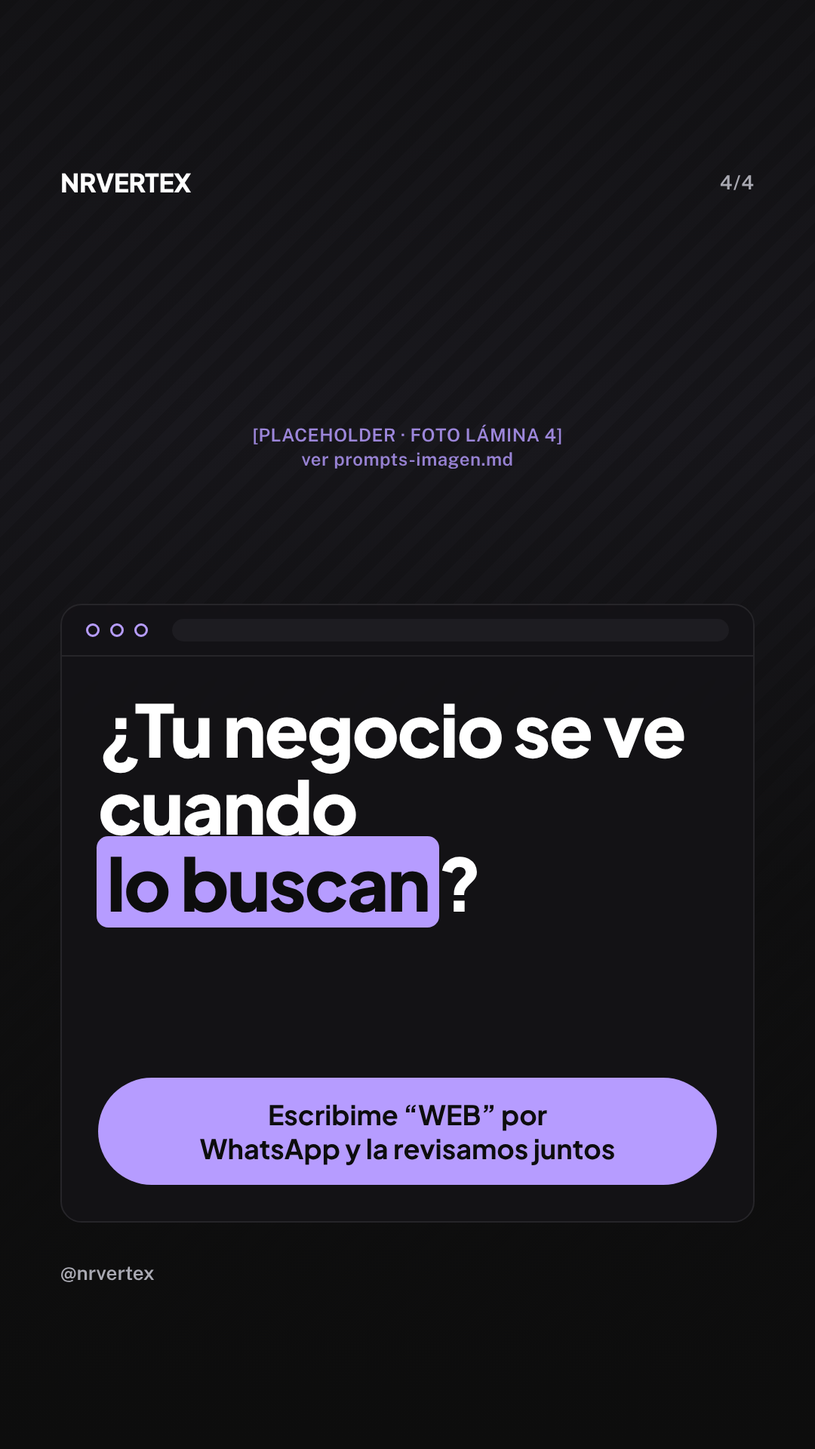
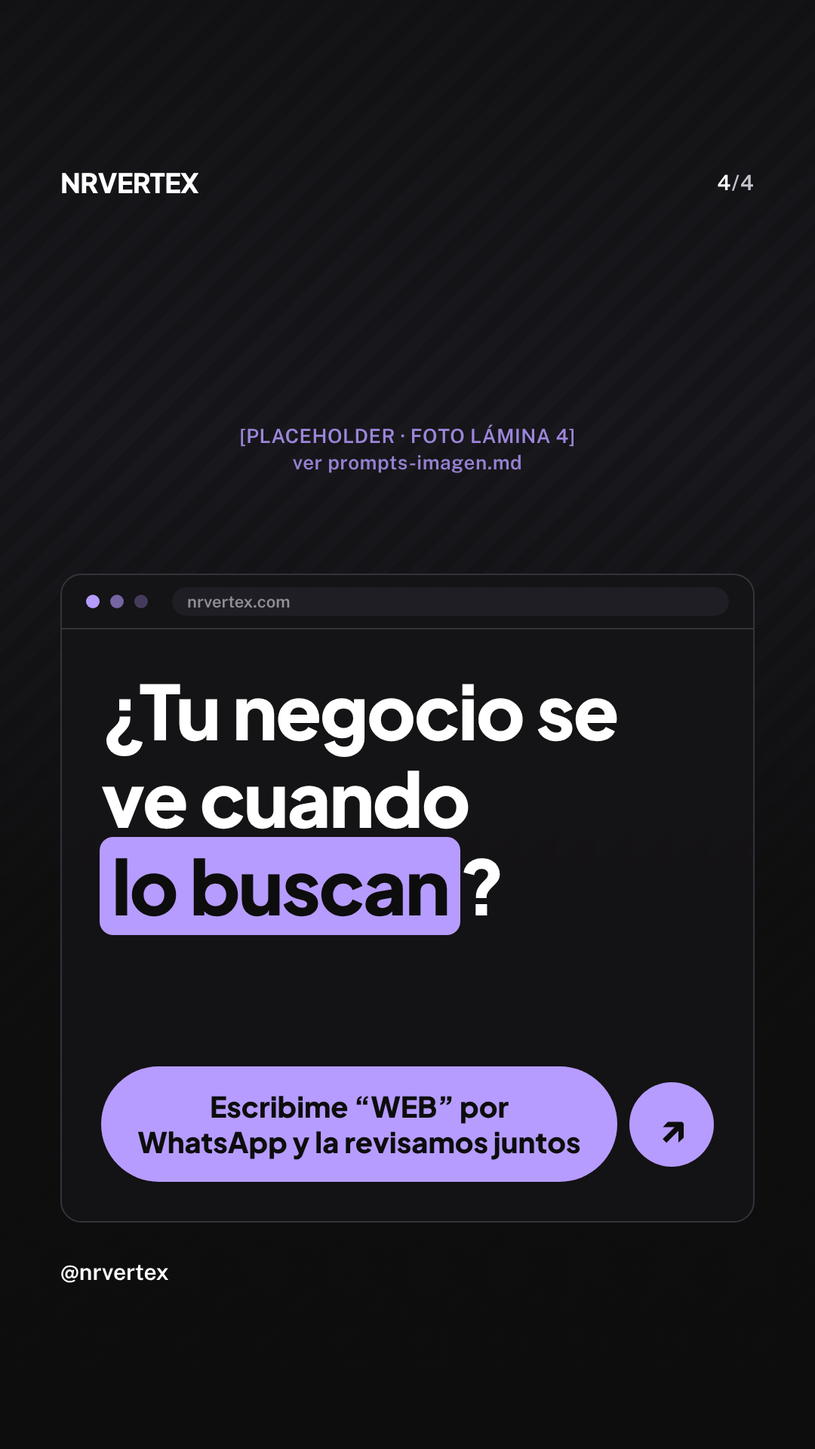
Mejora jerarquía, pesos, legibilidad y espaciados de las piezas
Claude-Session: https://claude.ai/code/session_01GdGc33ydtXqPRbN8hxPgAS

diff --git a/_CONTENIDO/03-produccion/carrusel-web-vidriera/assets/base.css b/_CONTENIDO/03-produccion/carrusel-web-vidriera/assets/base.css
@@ -1,33 +1,42 @@
 @import url('fonts.css');
 :root{
-  --ink:#0D0D0D; --ink2:#141316; --line:#262529; --paper:#F3F3F3;
-  --violet:#B69CFF; --violet-soft:#CDB9FF; --muted:#A9A9B2;
-  --m:80px; /* margen de zona segura */
+  --ink:#0D0D0D; --ink2:#141316; --line:#34333B; --paper:#F3F3F3; --paper-70:#C9C9D1;
+  --violet:#B69CFF; --violet-soft:#CDB9FF; --muted:#C4C4CC;
+  --m:80px;                       /* margen de zona segura */
+  --s1:16px; --s2:28px; --s3:48px; /* escala de espaciado */
+  --lead:56px; --main:96px;        /* tamaños de titular (se redefinen por lámina) */
 }
 *{box-sizing:border-box;margin:0;padding:0}
 html,body{width:1080px;height:1350px;background:var(--ink);overflow:hidden}
 body{position:relative;font-family:'Public Sans',Arial,sans-serif;color:var(--paper);-webkit-font-smoothing:antialiased}
-.glow{position:absolute;inset:0;background:radial-gradient(900px 700px at 85% 8%,rgba(182,156,255,.16),transparent 60%),radial-gradient(800px 600px at 5% 100%,rgba(124,58,237,.14),transparent 60%)}
-/* cabecera */
+.glow{position:absolute;inset:0;background:radial-gradient(900px 700px at 85% 8%,rgba(182,156,255,.18),transparent 60%),radial-gradient(800px 600px at 5% 100%,rgba(124,58,237,.14),transparent 60%)}
+/* cabecera y pie */
 .top{position:absolute;left:var(--m);right:var(--m);top:var(--m);display:flex;justify-content:space-between;align-items:center;height:44px;z-index:5}
-.logo{font:800 34px/1 'Plus Jakarta Sans',sans-serif;letter-spacing:-.01em;color:#fff}
-.count{font:600 26px/1 'Public Sans',sans-serif;color:var(--muted);letter-spacing:.04em}
-/* pie */
-.foot{position:absolute;left:var(--m);right:var(--m);bottom:var(--m);display:flex;justify-content:space-between;align-items:center;font:600 26px/1 'Public Sans',sans-serif;color:var(--muted);z-index:5}
-.foot b{color:var(--violet);font-weight:600}
+.logo{font:800 36px/1 'Plus Jakarta Sans',sans-serif;letter-spacing:-.01em;color:#fff}
+.count{font:700 28px/1 'Public Sans',sans-serif;color:var(--muted);letter-spacing:.04em}
+.count b{color:#fff;font-weight:700}
+.foot{position:absolute;left:var(--m);right:var(--m);bottom:var(--m);display:flex;justify-content:space-between;align-items:center;font:600 30px/1 'Public Sans',sans-serif;color:var(--muted);z-index:5}
+.foot .h{color:#fff;font-weight:700}
+.foot b{color:var(--violet);font-weight:700}
 /* ventana */
 .win{position:absolute;left:var(--m);right:var(--m);top:170px;bottom:150px;background:var(--ink2);border:2px solid var(--line);border-radius:28px;display:flex;flex-direction:column;overflow:hidden;z-index:2}
-.chrome{height:68px;flex:none;border-bottom:2px solid var(--line);display:flex;align-items:center;gap:14px;padding:0 32px}
-.chrome i{width:18px;height:18px;border-radius:50%;border:3px solid var(--violet);display:block}
-.chrome .bar{margin-left:18px;flex:1;height:30px;border-radius:15px;background:#1d1c21}
-.body{flex:1;display:flex;flex-direction:column;padding:44px 48px 48px;min-height:0}
-/* titulares */
-.t{font-family:'Plus Jakarta Sans',sans-serif;font-weight:800;letter-spacing:-.025em;line-height:1.1;color:#fff}
+.chrome{height:72px;flex:none;border-bottom:2px solid var(--line);display:flex;align-items:center;gap:14px;padding:0 32px}
+.chrome i{width:18px;height:18px;border-radius:50%;background:var(--violet);display:block}
+.chrome i:nth-child(2){opacity:.6}.chrome i:nth-child(3){opacity:.3}
+.chrome .bar{margin-left:18px;flex:1;height:38px;border-radius:19px;background:#1F1E24;display:flex;align-items:center;padding:0 20px;font:600 22px/1 'Public Sans',sans-serif;color:#8F8F99}
+.body{flex:1;display:flex;flex-direction:column;padding:var(--s3) 52px 52px;min-height:0}
+/* titulares: nivel 1 = apoyo, nivel 2 = protagonista */
+.t{font-family:'Plus Jakarta Sans',sans-serif;color:#fff;word-spacing:.05em}
+.lead{font-weight:700;font-size:var(--lead);line-height:1.16;letter-spacing:-.015em;color:var(--paper-70)}
+.main{font-weight:800;font-size:var(--main);line-height:1.16;letter-spacing:-.025em;margin-top:var(--s2)}
 .t em{font-style:italic;font-weight:800;color:var(--violet-soft)}
-.hl{background:var(--violet);color:var(--ink);padding:0 .14em;margin:0 -.02em;border-radius:.16em;-webkit-box-decoration-break:clone;box-decoration-break:clone}
+.hl{background:var(--violet);color:var(--ink);font-weight:800;padding:0 .16em .04em;margin:0 -.02em;border-radius:.18em;-webkit-box-decoration-break:clone;box-decoration-break:clone}
+.tail{font:600 38px/1.25 'Public Sans',sans-serif;color:var(--paper-70);margin-top:var(--s2)}
 /* slot de imagen (placeholder hasta tener la imagen real) */
-.slot{position:relative;flex:none;border-radius:20px;overflow:hidden;border:2px dashed rgba(182,156,255,.55);background:repeating-linear-gradient(135deg,#17161b 0 18px,#1b1a20 18px 36px);background-size:cover;background-position:center}
-.slot .tag{position:absolute;inset:0;display:flex;align-items:center;justify-content:center;text-align:center;padding:20px;font:600 24px/1.35 'Public Sans',sans-serif;color:var(--violet);letter-spacing:.02em}
+.slot{position:relative;flex:1;min-height:0;margin-top:var(--s3);border-radius:22px;overflow:hidden;border:2px dashed rgba(182,156,255,.6);background:repeating-linear-gradient(135deg,#17161b 0 18px,#1b1a20 18px 36px);background-size:cover;background-position:center}
+.slot .tag{position:absolute;inset:0;display:flex;align-items:center;justify-content:center;text-align:center;padding:20px;font:700 26px/1.35 'Public Sans',sans-serif;color:var(--violet);letter-spacing:.02em}
 .slot.has-img{border-color:transparent}.slot.has-img .tag{display:none}
-/* botón pastilla */
-.pill{display:inline-block;background:var(--violet);color:var(--ink);font:700 36px/1.25 'Plus Jakarta Sans',sans-serif;padding:26px 44px;border-radius:999px;text-align:center}
+/* botón pastilla con flecha (como el de nrvertex.com) */
+.cta{display:flex;align-items:center;gap:16px}
+.pill{flex:1;background:var(--violet);color:var(--ink);font:800 38px/1.22 'Plus Jakarta Sans',sans-serif;padding:30px 44px;border-radius:999px;text-align:center}
+.arrow{flex:none;width:112px;height:112px;border-radius:50%;background:var(--violet);color:var(--ink);display:flex;align-items:center;justify-content:center;font:800 54px/1 'Plus Jakarta Sans',sans-serif}

diff --git a/_CONTENIDO/03-produccion/carrusel-web-vidriera/html/estado-3.html b/_CONTENIDO/03-produccion/carrusel-web-vidriera/html/estado-3.html
@@ -1,19 +1,18 @@
 <!doctype html><html lang="es"><head><meta charset="utf-8"><title>NRVERTEX · Estado WhatsApp 3</title>
 <link rel="stylesheet" href="../assets/base.css">
 <link rel="stylesheet" href="../assets/story.css">
-<style>.t{font-size:56px;line-height:1.12}
-.lap{margin:auto auto 0;width:700px}
-.lap .scr{background:#050506;border:3px solid #34333a;border-radius:20px 20px 6px 6px;padding:14px 14px 18px}
+<style>:root{--main:62px}
+.lapwrap{flex:1;min-height:0;display:flex;align-items:flex-end;justify-content:center;margin-top:var(--s3)}
+.lap{width:660px}
+.lap .scr{background:#050506;border:3px solid #3d3c44;border-radius:20px 20px 6px 6px;padding:14px 14px 18px}
 .lap .scr img{display:block;width:100%;aspect-ratio:16/10;object-fit:cover;object-position:top;border-radius:6px}
-.lap .base{height:22px;margin:0 -50px;background:linear-gradient(#3b3a42,#202025);border-radius:0 0 40px 40px;position:relative}
-.lap .base:after{content:"";position:absolute;left:50%;top:0;width:150px;height:8px;margin-left:-75px;background:#14141a;border-radius:0 0 12px 12px}
-</style></head><body class="s3">
+.lap .base{height:22px;margin:0 -50px;background:linear-gradient(#45444c,#222227);border-radius:0 0 40px 40px;position:relative}
+.lap .base:after{content:"";position:absolute;left:50%;top:0;width:150px;height:8px;margin-left:-75px;background:#14141a;border-radius:0 0 12px 12px}</style></head><body class="s3">
 <div class="glow"></div>
-<div class="top"><div class="logo">NRVERTEX</div><div class="count">3/4</div></div>
-<div class="win"><div class="chrome"><i></i><i></i><i></i><div class="bar"></div></div>
-<div class="body">
-<h1 class="t">Una web hecha para <span class="hl">aparecer en Google</span> y para que te escriban por <em>WhatsApp</em>, no solo para verse&nbsp;linda.</h1>
-<div class="lap"><div class="scr"><img src="../assets/nrvertex-hero.png" alt="Captura de nrvertex.com"></div><div class="base"></div></div>
+<div class="top"><div class="logo">NRVERTEX</div><div class="count"><b>3</b>/4</div></div>
+<div class="win"><div class="chrome"><i></i><i></i><i></i><div class="bar">nrvertex.com</div></div><div class="body">
+<h1 class="t"><div class="main" style="margin-top:0">Una web hecha para <span class="hl">aparecer en Google</span> y para que te escriban por <em>WhatsApp</em>,</div><div class="tail">no solo para verse linda.</div></h1>
+<div class="lapwrap"><div class="lap"><div class="scr"><img src="../assets/nrvertex-hero.png" alt="Captura de nrvertex.com"></div><div class="base"></div></div></div>
 </div></div>
-<div class="foot"><span>@nrvertex</span><span></span></div>
-</body></html>
+<div class="foot"><span class="h">@nrvertex</span><span></span></div>
+<script src="../assets/slot.js"></script></body></html>

diff --git a/_CONTENIDO/03-produccion/carrusel-web-vidriera/html/lamina-3.html b/_CONTENIDO/03-produccion/carrusel-web-vidriera/html/lamina-3.html
@@ -1,18 +1,17 @@
 <!doctype html><html lang="es"><head><meta charset="utf-8"><title>NRVERTEX · Lámina 3</title>
 <link rel="stylesheet" href="../assets/base.css">
-<style>.t{font-size:56px;line-height:1.12}
-.lap{margin:auto auto 0;width:700px}
-.lap .scr{background:#050506;border:3px solid #34333a;border-radius:20px 20px 6px 6px;padding:14px 14px 18px}
+<style>:root{--main:62px}
+.lapwrap{flex:1;min-height:0;display:flex;align-items:flex-end;justify-content:center;margin-top:var(--s3)}
+.lap{width:660px}
+.lap .scr{background:#050506;border:3px solid #3d3c44;border-radius:20px 20px 6px 6px;padding:14px 14px 18px}
 .lap .scr img{display:block;width:100%;aspect-ratio:16/10;object-fit:cover;object-position:top;border-radius:6px}
-.lap .base{height:22px;margin:0 -50px;background:linear-gradient(#3b3a42,#202025);border-radius:0 0 40px 40px;position:relative}
-.lap .base:after{content:"";position:absolute;left:50%;top:0;width:150px;height:8px;margin-left:-75px;background:#14141a;border-radius:0 0 12px 12px}
-</style></head><body>
+.lap .base{height:22px;margin:0 -50px;background:linear-gradient(#45444c,#222227);border-radius:0 0 40px 40px;position:relative}
+.lap .base:after{content:"";position:absolute;left:50%;top:0;width:150px;height:8px;margin-left:-75px;background:#14141a;border-radius:0 0 12px 12px}</style></head><body>
 <div class="glow"></div>
-<div class="top"><div class="logo">NRVERTEX</div><div class="count">3/4</div></div>
-<div class="win"><div class="chrome"><i></i><i></i><i></i><div class="bar"></div></div>
-<div class="body">
-<h1 class="t">Una web hecha para <span class="hl">aparecer en Google</span> y para que te escriban por <em>WhatsApp</em>, no solo para verse&nbsp;linda.</h1>
-<div class="lap"><div class="scr"><img src="../assets/nrvertex-hero.png" alt="Captura de nrvertex.com"></div><div class="base"></div></div>
+<div class="top"><div class="logo">NRVERTEX</div><div class="count"><b>3</b>/4</div></div>
+<div class="win"><div class="chrome"><i></i><i></i><i></i><div class="bar">nrvertex.com</div></div><div class="body">
+<h1 class="t"><div class="main" style="margin-top:0">Una web hecha para <span class="hl">aparecer en Google</span> y para que te escriban por <em>WhatsApp</em>,</div><div class="tail">no solo para verse linda.</div></h1>
+<div class="lapwrap"><div class="lap"><div class="scr"><img src="../assets/nrvertex-hero.png" alt="Captura de nrvertex.com"></div><div class="base"></div></div></div>
 </div></div>
-<div class="foot"><span>@nrvertex</span><span>Deslizá <b>→</b></span></div>
-</body></html>
+<div class="foot"><span class="h">@nrvertex</span><span>Deslizá <b>→</b></span></div>
+<script src="../assets/slot.js"></script></body></html>

diff --git a/_CONTENIDO/03-produccion/carrusel-web-vidriera/html/estado-4.html b/_CONTENIDO/03-produccion/carrusel-web-vidriera/html/estado-4.html
@@ -1,22 +1,19 @@
 <!doctype html><html lang="es"><head><meta charset="utf-8"><title>NRVERTEX · Estado WhatsApp 4</title>
 <link rel="stylesheet" href="../assets/base.css">
 <link rel="stylesheet" href="../assets/story.css">
-<style>
-.bg{position:absolute;inset:0;border:none;border-radius:0;background-color:#16151a;z-index:0}
-.bg .tag{align-items:flex-start;padding-top:330px}
+<style>:root{--main:90px}
+.bg{position:absolute;inset:0;border:none;border-radius:0;margin:0;background-color:#16151a;z-index:0}
+.bg .tag{align-items:flex-start;padding-top:300px}
 .shade{position:absolute;inset:0;background:linear-gradient(180deg,rgba(13,13,13,.55) 0%,rgba(13,13,13,.15) 30%,rgba(13,13,13,.85) 62%,#0D0D0D 100%);z-index:1}
-.win{top:auto;height:640px;bottom:150px;background:rgba(20,19,22,.86);backdrop-filter:blur(10px)}
-.t{font-size:88px;line-height:1.06}
+.win{top:auto;height:690px;bottom:150px;background:rgba(20,19,22,.88);backdrop-filter:blur(10px)}
 .body{justify-content:space-between}
-.pill{align-self:stretch;font-size:36px}
-</style></head><body class="s4">
+.main{margin-top:0}.hl{white-space:nowrap}.cta{margin-top:var(--s3)}</style></head><body class="s4">
 <div class="slot bg" data-img="../assets/imagenes/lamina-4.png"><div class="tag">[PLACEHOLDER · FOTO LÁMINA 4]<br>ver prompts-imagen.md</div></div>
 <div class="shade"></div>
-<div class="top"><div class="logo">NRVERTEX</div><div class="count">4/4</div></div>
-<div class="win"><div class="chrome"><i></i><i></i><i></i><div class="bar"></div></div>
-<div class="body">
-<h1 class="t">¿Tu negocio se ve cuando <span class="hl">lo buscan</span>?</h1>
-<div class="pill">Escribime “WEB” por<br>WhatsApp y la revisamos juntos</div>
+<div class="top"><div class="logo">NRVERTEX</div><div class="count"><b>4</b>/4</div></div>
+<div class="win"><div class="chrome"><i></i><i></i><i></i><div class="bar">nrvertex.com</div></div><div class="body">
+<h1 class="t"><div class="main">¿Tu negocio se ve cuando <span class="hl">lo buscan</span>?</div></h1>
+<div class="cta"><div class="pill">Escribime “WEB” por<br>WhatsApp y la revisamos juntos</div><div class="arrow">↗</div></div>
 </div></div>
-<div class="foot"><span>@nrvertex</span><span></span></div>
+<div class="foot"><span class="h">@nrvertex</span><span></span></div>
 <script src="../assets/slot.js"></script></body></html>

diff --git a/_CONTENIDO/03-produccion/carrusel-web-vidriera/html/lamina-4.html b/_CONTENIDO/03-produccion/carrusel-web-vidriera/html/lamina-4.html
@@ -1,21 +1,18 @@
 <!doctype html><html lang="es"><head><meta charset="utf-8"><title>NRVERTEX · Lámina 4</title>
 <link rel="stylesheet" href="../assets/base.css">
-<style>
-.bg{position:absolute;inset:0;border:none;border-radius:0;background-color:#16151a;z-index:0}
-.bg .tag{align-items:flex-start;padding-top:330px}
+<style>:root{--main:90px}
+.bg{position:absolute;inset:0;border:none;border-radius:0;margin:0;background-color:#16151a;z-index:0}
+.bg .tag{align-items:flex-start;padding-top:300px}
 .shade{position:absolute;inset:0;background:linear-gradient(180deg,rgba(13,13,13,.55) 0%,rgba(13,13,13,.15) 30%,rgba(13,13,13,.85) 62%,#0D0D0D 100%);z-index:1}
-.win{top:auto;height:640px;bottom:150px;background:rgba(20,19,22,.86);backdrop-filter:blur(10px)}
-.t{font-size:88px;line-height:1.06}
+.win{top:auto;height:730px;bottom:150px;background:rgba(20,19,22,.88);backdrop-filter:blur(10px)}
 .body{justify-content:space-between}
-.pill{align-self:stretch;font-size:36px}
-</style></head><body>
+.main{margin-top:0}.hl{white-space:nowrap}.cta{margin-top:var(--s3)}</style></head><body>
 <div class="slot bg" data-img="../assets/imagenes/lamina-4.png"><div class="tag">[PLACEHOLDER · FOTO LÁMINA 4]<br>ver prompts-imagen.md</div></div>
 <div class="shade"></div>
-<div class="top"><div class="logo">NRVERTEX</div><div class="count">4/4</div></div>
-<div class="win"><div class="chrome"><i></i><i></i><i></i><div class="bar"></div></div>
-<div class="body">
-<h1 class="t">¿Tu negocio se ve cuando <span class="hl">lo buscan</span>?</h1>
-<div class="pill">Escribime “WEB” por DM<br>y la revisamos juntos</div>
+<div class="top"><div class="logo">NRVERTEX</div><div class="count"><b>4</b>/4</div></div>
+<div class="win"><div class="chrome"><i></i><i></i><i></i><div class="bar">nrvertex.com</div></div><div class="body">
+<h1 class="t"><div class="main">¿Tu negocio se ve cuando <span class="hl">lo buscan</span>?</div></h1>
+<div class="cta"><div class="pill">Escribime “WEB” por DM<br>y la revisamos juntos</div><div class="arrow">↗</div></div>
 </div></div>
-<div class="foot"><span>@nrvertex</span><span></span></div>
+<div class="foot"><span class="h">@nrvertex</span><span></span></div>
 <script src="../assets/slot.js"></script></body></html>

diff --git a/_CONTENIDO/03-produccion/carrusel-web-vidriera/html/estado-2.html b/_CONTENIDO/03-produccion/carrusel-web-vidriera/html/estado-2.html
@@ -1,13 +1,12 @@
 <!doctype html><html lang="es"><head><meta charset="utf-8"><title>NRVERTEX · Estado WhatsApp 2</title>
 <link rel="stylesheet" href="../assets/base.css">
 <link rel="stylesheet" href="../assets/story.css">
-<style>.t{font-size:60px;line-height:1.12}.slot{height:390px;margin-top:auto}</style></head><body class="s2">
+<style>:root{--lead:50px;--main:64px}</style></head><body class="s2">
 <div class="glow"></div>
-<div class="top"><div class="logo">NRVERTEX</div><div class="count">2/4</div></div>
-<div class="win"><div class="chrome"><i></i><i></i><i></i><div class="bar"></div></div>
-<div class="body">
-<h1 class="t">Cuando alguien necesita un servicio, <span class="hl">lo busca en Google</span>. Si solo tenés Instagram, el cliente <span class="hl">no te encuentra</span> y le llega tu&nbsp;<em>competencia.</em></h1>
+<div class="top"><div class="logo">NRVERTEX</div><div class="count"><b>2</b>/4</div></div>
+<div class="win"><div class="chrome"><i></i><i></i><i></i><div class="bar">nrvertex.com</div></div><div class="body">
+<h1 class="t"><div class="lead">Cuando alguien necesita un servicio, <span class="hl">lo busca en Google</span>.</div><div class="main">Si solo tenés Instagram, el cliente <span class="hl">no te encuentra</span> y le llega tu&nbsp;<em>competencia.</em></div></h1>
 <div class="slot" data-img="../assets/imagenes/lamina-2.png"><div class="tag">[PLACEHOLDER · IMAGEN LÁMINA 2]<br>ver prompts-imagen.md</div></div>
 </div></div>
-<div class="foot"><span>@nrvertex</span><span></span></div>
+<div class="foot"><span class="h">@nrvertex</span><span></span></div>
 <script src="../assets/slot.js"></script></body></html>

diff --git a/_CONTENIDO/03-produccion/carrusel-web-vidriera/html/lamina-2.html b/_CONTENIDO/03-produccion/carrusel-web-vidriera/html/lamina-2.html
@@ -1,12 +1,11 @@
 <!doctype html><html lang="es"><head><meta charset="utf-8"><title>NRVERTEX · Lámina 2</title>
 <link rel="stylesheet" href="../assets/base.css">
-<style>.t{font-size:60px;line-height:1.12}.slot{height:390px;margin-top:auto}</style></head><body>
+<style>:root{--lead:50px;--main:64px}</style></head><body>
 <div class="glow"></div>
-<div class="top"><div class="logo">NRVERTEX</div><div class="count">2/4</div></div>
-<div class="win"><div class="chrome"><i></i><i></i><i></i><div class="bar"></div></div>
-<div class="body">
-<h1 class="t">Cuando alguien necesita un servicio, <span class="hl">lo busca en Google</span>. Si solo tenés Instagram, el cliente <span class="hl">no te encuentra</span> y le llega tu&nbsp;<em>competencia.</em></h1>
+<div class="top"><div class="logo">NRVERTEX</div><div class="count"><b>2</b>/4</div></div>
+<div class="win"><div class="chrome"><i></i><i></i><i></i><div class="bar">nrvertex.com</div></div><div class="body">
+<h1 class="t"><div class="lead">Cuando alguien necesita un servicio, <span class="hl">lo busca en Google</span>.</div><div class="main">Si solo tenés Instagram, el cliente <span class="hl">no te encuentra</span> y le llega tu&nbsp;<em>competencia.</em></div></h1>
 <div class="slot" data-img="../assets/imagenes/lamina-2.png"><div class="tag">[PLACEHOLDER · IMAGEN LÁMINA 2]<br>ver prompts-imagen.md</div></div>
 </div></div>
-<div class="foot"><span>@nrvertex</span><span>Deslizá <b>→</b></span></div>
+<div class="foot"><span class="h">@nrvertex</span><span>Deslizá <b>→</b></span></div>
 <script src="../assets/slot.js"></script></body></html>

diff --git a/_CONTENIDO/03-produccion/carrusel-web-vidriera/html/estado-1.html b/_CONTENIDO/03-produccion/carrusel-web-vidriera/html/estado-1.html
@@ -1,13 +1,12 @@
 <!doctype html><html lang="es"><head><meta charset="utf-8"><title>NRVERTEX · Estado WhatsApp 1</title>
 <link rel="stylesheet" href="../assets/base.css">
 <link rel="stylesheet" href="../assets/story.css">
-<style>.t{font-size:86px}.slot{height:420px;margin-top:auto}</style></head><body class="s1">
+<style>:root{--lead:58px;--main:104px}</style></head><body class="s1">
 <div class="glow"></div>
-<div class="top"><div class="logo">NRVERTEX</div><div class="count">1/4</div></div>
-<div class="win"><div class="chrome"><i></i><i></i><i></i><div class="bar"></div></div>
-<div class="body">
-<h1 class="t">Tu Instagram es tu <em>vidriera.</em> Tu web es tu <span class="hl">local abierto</span> las&nbsp;24&nbsp;hs.</h1>
+<div class="top"><div class="logo">NRVERTEX</div><div class="count"><b>1</b>/4</div></div>
+<div class="win"><div class="chrome"><i></i><i></i><i></i><div class="bar">nrvertex.com</div></div><div class="body">
+<h1 class="t"><div class="lead">Tu Instagram es tu <em>vidriera.</em></div><div class="main">Tu web es tu <span class="hl">local abierto</span> las&nbsp;24&nbsp;hs.</div></h1>
 <div class="slot" data-img="../assets/imagenes/lamina-1.png"><div class="tag">[PLACEHOLDER · IMAGEN LÁMINA 1]<br>ver prompts-imagen.md</div></div>
 </div></div>
-<div class="foot"><span>@nrvertex</span><span></span></div>
+<div class="foot"><span class="h">@nrvertex</span><span></span></div>
 <script src="../assets/slot.js"></script></body></html>

diff --git a/_CONTENIDO/03-produccion/carrusel-web-vidriera/html/lamina-1.html b/_CONTENIDO/03-produccion/carrusel-web-vidriera/html/lamina-1.html
@@ -1,12 +1,11 @@
 <!doctype html><html lang="es"><head><meta charset="utf-8"><title>NRVERTEX · Lámina 1</title>
 <link rel="stylesheet" href="../assets/base.css">
-<style>.t{font-size:86px}.slot{height:420px;margin-top:auto}</style></head><body>
+<style>:root{--lead:58px;--main:104px}</style></head><body>
 <div class="glow"></div>
-<div class="top"><div class="logo">NRVERTEX</div><div class="count">1/4</div></div>
-<div class="win"><div class="chrome"><i></i><i></i><i></i><div class="bar"></div></div>
-<div class="body">
-<h1 class="t">Tu Instagram es tu <em>vidriera.</em> Tu web es tu <span class="hl">local abierto</span> las&nbsp;24&nbsp;hs.</h1>
+<div class="top"><div class="logo">NRVERTEX</div><div class="count"><b>1</b>/4</div></div>
+<div class="win"><div class="chrome"><i></i><i></i><i></i><div class="bar">nrvertex.com</div></div><div class="body">
+<h1 class="t"><div class="lead">Tu Instagram es tu <em>vidriera.</em></div><div class="main">Tu web es tu <span class="hl">local abierto</span> las&nbsp;24&nbsp;hs.</div></h1>
 <div class="slot" data-img="../assets/imagenes/lamina-1.png"><div class="tag">[PLACEHOLDER · IMAGEN LÁMINA 1]<br>ver prompts-imagen.md</div></div>
 </div></div>
-<div class="foot"><span>@nrvertex</span><span>Deslizá <b>→</b></span></div>
+<div class="foot"><span class="h">@nrvertex</span><span>Deslizá <b>→</b></span></div>
 <script src="../assets/slot.js"></script></body></html>

diff --git a/_CONTENIDO/03-produccion/carrusel-web-vidriera/assets/story.css b/_CONTENIDO/03-produccion/carrusel-web-vidriera/assets/story.css
@@ -1,15 +1,15 @@
-/* Versión estados de WhatsApp: 1080x1920. Zonas libres de UI: 220 px arriba y abajo. */
+/* Estados de WhatsApp: 1080x1920. 220 px libres arriba y abajo por la interfaz. */
 html,body{height:1920px}
 .top{top:220px}
 .foot{bottom:220px}
 .win{top:310px;bottom:300px}
-body.s1 .t{font-size:92px}
-body.s1 .slot{height:600px!important}
-body.s2 .t{font-size:64px}
-body.s2 .slot{height:560px!important}
-body.s3 .t{font-size:62px}
-body.s3 .lap{width:760px!important}
-body.s4 .win{height:820px!important;bottom:300px}
-body.s4 .t{font-size:96px}
+body.s1{--lead:64px;--main:114px}
+body.s2{--lead:54px;--main:70px}
+body.s3{--main:70px}
+body.s3 .lap{width:760px}
+body.s3 .tail{font-size:42px}
+body.s4{--main:100px}
+body.s4 .win{height:860px;bottom:300px}
 body.s4 .bg .tag{padding-top:560px}
 body.s4 .hl{white-space:nowrap}
+body .hl{white-space:nowrap}

diff --git a/_CONTENIDO/03-produccion/carrusel-web-vidriera/prompts-imagen.md b/_CONTENIDO/03-produccion/carrusel-web-vidriera/prompts-imagen.md
@@ -7,12 +7,12 @@ Cómo usarlos: generá la imagen afuera y guardala **con este nombre exacto** en
 ---
 
 ## Lámina 1 · `assets/imagenes/lamina-1.png`
-**Tamaño:** 1648×840 px (apaisado 2:1; en pantalla se ve a 824×420).
+**Tamaño:** 1624×700 px (apaisado ≈2.3:1; en pantalla se ve a 812×349).
 
 > Fotografía nocturna de la vidriera de un local de barrio en Buenos Aires, tomada de frente y a la altura de los ojos. Adentro, estantes con productos de un negocio de oficio (florería, ferretería o peluquería) iluminados con luz cálida; el local se ve vacío, con el cartel de "abierto" apagado o sin texto. Reflejo suave de luz violeta (#B69CFF) sobre el vidrio. Fondo y vereda en negro profundo (#0D0D0D). Composición horizontal con el sujeto en el centro y aire arriba y abajo. Estética cinematográfica, realista, poco contraste de color, sin texto legible, sin logos.
 
 ## Lámina 2 · `assets/imagenes/lamina-2.png`
-**Tamaño:** 1648×780 px (apaisado ~2.1:1; en pantalla se ve a 824×390).
+**Tamaño:** 1624×880 px (apaisado ≈1.85:1; en pantalla se ve a 812×439).
 
 > Primer plano de una persona en la vereda de noche, de espaldas o de perfil sin rostro identificable, mirando un celular. La pantalla emite una luz violeta suave (#B69CFF) sobre sus manos y su campera oscura. Al fondo, desenfocadas, las luces de varios locales de barrio en una calle de CABA, que sugieren "muchas opciones". Sin texto legible en la pantalla. Fondo negro profundo (#0D0D0D), profundidad de campo corta, estilo fotográfico realista y cinematográfico.
 
@@ -34,8 +34,8 @@ Los estados usan otros recortes. Podés reusar el mismo prompt de cada lámina p
 
 | Lámina | Archivo en `assets/imagenes/` | Tamaño a generar | Nota |
 |---|---|---|---|
-| 1 | `estado-1.png` | 1648×1200 (≈1.4:1) | Más alta que la del feed: dejá más aire arriba y abajo. |
-| 2 | `estado-2.png` | 1648×1120 (≈1.5:1) | Igual que arriba. |
+| 1 | `estado-1.png` | 1624×1174 (≈1.4:1) | Más alta que la del feed: dejá más aire arriba y abajo. |
+| 2 | `estado-2.png` | 1624×1216 (≈1.33:1) | Igual que arriba. |
 | 4 | `estado-4.png` | 1080×1920 (9:16, pantalla completa) | Sujeto en el **40 % superior**; el resto en sombra, porque ahí va la tarjeta de texto. |
 
 Para usarlas en los estados, cambiá el `data-img` de `html/estado-N.html` a `../assets/imagenes/estado-N.png` y corré `node export-estados.js`.
